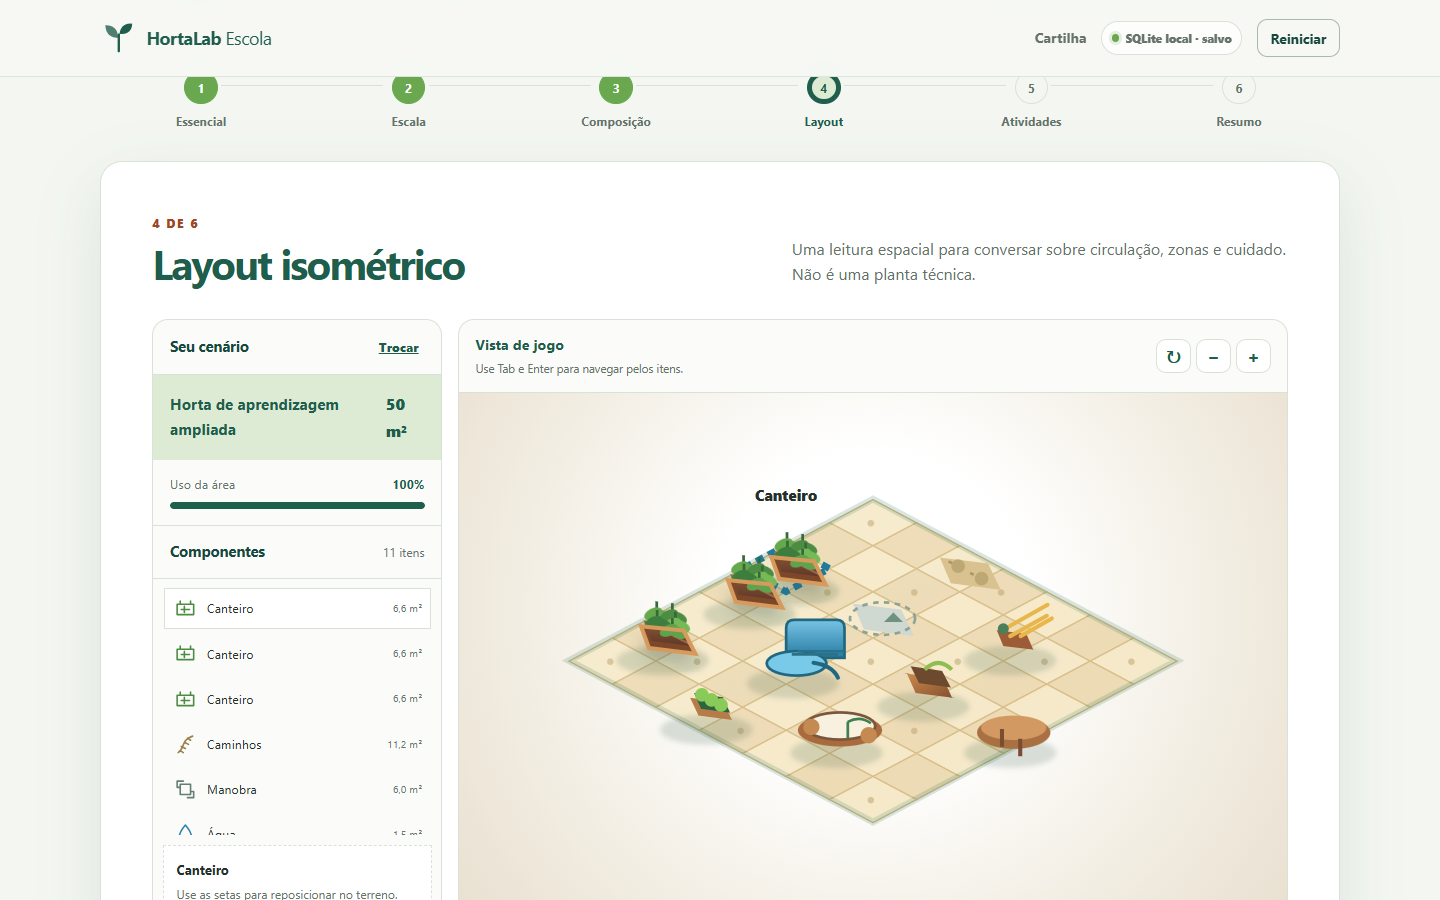
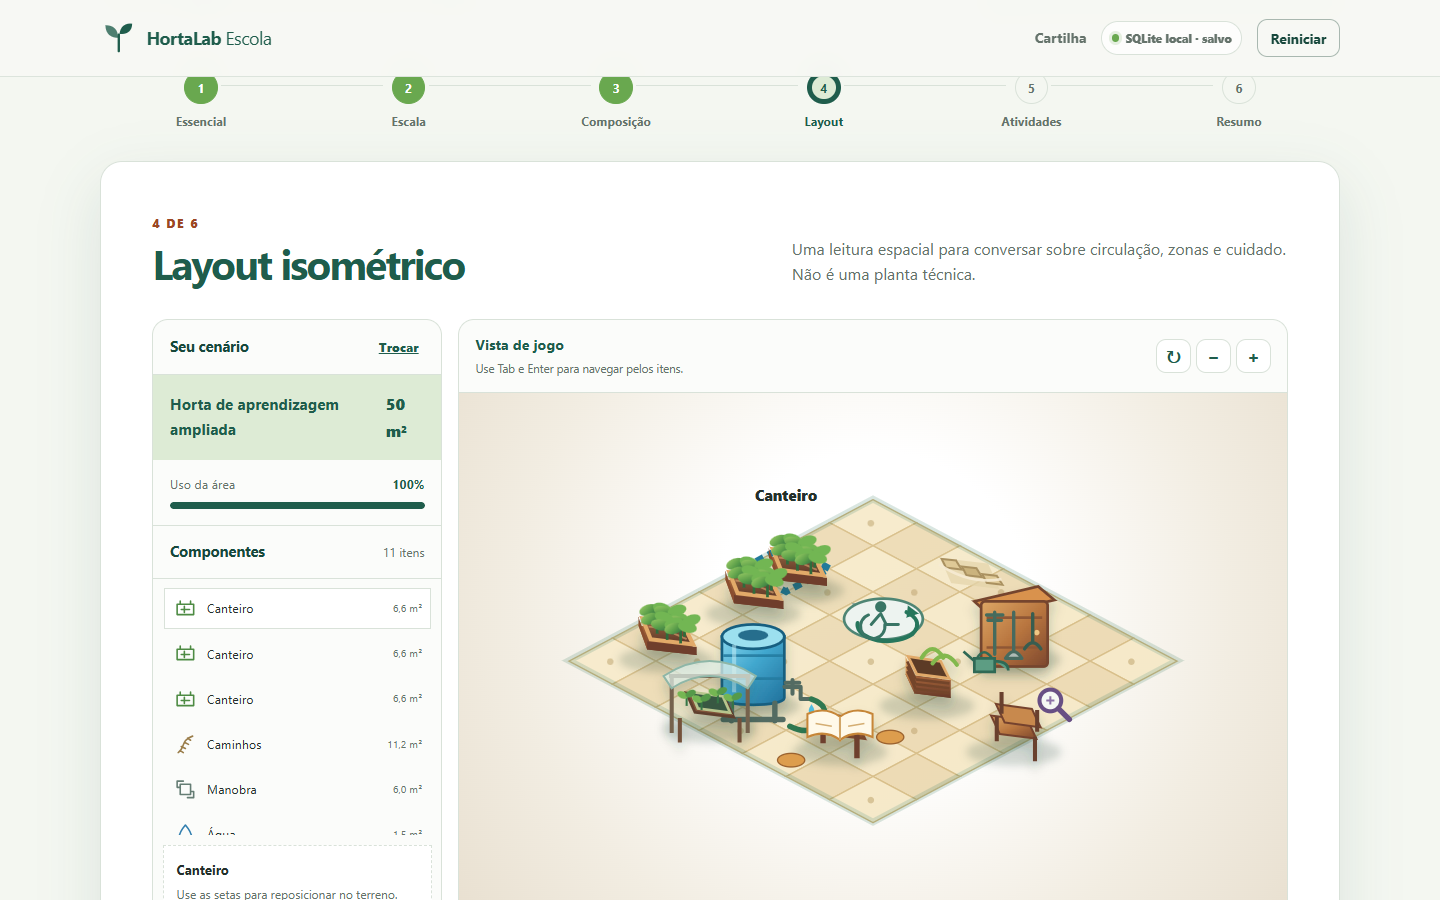
Redesign isometric garden objects

Changed region(s): [[0.4375, 0.5911, 0.75, 0.8711]]

diff --git a/js/planner.js b/js/planner.js
@@ -219,34 +219,46 @@
   function svgDefs(prefix) {
     return `<defs>
       <linearGradient id="${prefix}-terrain" x1="0" y1="0" x2="1" y2="1"><stop offset="0" stop-color="#f8edcf"/><stop offset="1" stop-color="#e7cf9f"/></linearGradient>
-      <linearGradient id="${prefix}-soil" x1="0" y1="0" x2="0" y2="1"><stop stop-color="#8d5835"/><stop offset="1" stop-color="#5f3828"/></linearGradient>
-      <linearGradient id="${prefix}-wood" x1="0" y1="0" x2="1" y2="1"><stop stop-color="#c98a4e"/><stop offset="1" stop-color="#88502e"/></linearGradient>
-      <linearGradient id="${prefix}-water" x1="0" y1="0" x2="0" y2="1"><stop stop-color="#78c3e3"/><stop offset="1" stop-color="#267ba3"/></linearGradient>
-      <filter id="${prefix}-shadow" x="-40%" y="-40%" width="180%" height="200%"><feDropShadow dx="0" dy="8" stdDeviation="5" flood-color="#355344" flood-opacity=".22"/></filter>
-      <filter id="${prefix}-soft" x="-30%" y="-30%" width="160%" height="160%"><feGaussianBlur stdDeviation="2"/></filter>
+      <linearGradient id="${prefix}-soil" x1="0" y1="0" x2="0" y2="1"><stop stop-color="#9b6741"/><stop offset="1" stop-color="#5d3728"/></linearGradient>
+      <linearGradient id="${prefix}-wood" x1="0" y1="0" x2="1" y2="1"><stop stop-color="#dea765"/><stop offset=".52" stop-color="#b8753f"/><stop offset="1" stop-color="#7d472d"/></linearGradient>
+      <linearGradient id="${prefix}-wood-dark" x1="0" y1="0" x2="0" y2="1"><stop stop-color="#a76438"/><stop offset="1" stop-color="#663a29"/></linearGradient>
+      <linearGradient id="${prefix}-water" x1="0" y1="0" x2="1" y2="1"><stop stop-color="#86d5ec"/><stop offset=".45" stop-color="#42a8cf"/><stop offset="1" stop-color="#1f6f9a"/></linearGradient>
+      <linearGradient id="${prefix}-metal" x1="0" y1="0" x2="1" y2="1"><stop stop-color="#f5f8f5"/><stop offset=".5" stop-color="#aabbb5"/><stop offset="1" stop-color="#6d827b"/></linearGradient>
+      <linearGradient id="${prefix}-terracotta" x1="0" y1="0" x2="1" y2="1"><stop stop-color="#ef9a62"/><stop offset="1" stop-color="#a84f32"/></linearGradient>
+      <linearGradient id="${prefix}-foliage" x1="0" y1="0" x2="1" y2="1"><stop stop-color="#9acc65"/><stop offset=".55" stop-color="#5c9f4a"/><stop offset="1" stop-color="#2f7142"/></linearGradient>
+      <filter id="${prefix}-shadow" x="-45%" y="-45%" width="190%" height="210%"><feDropShadow dx="0" dy="6" stdDeviation="4" flood-color="#27483b" flood-opacity=".24"/></filter>
+      <filter id="${prefix}-soft" x="-40%" y="-40%" width="180%" height="180%"><feGaussianBlur stdDeviation="3"/></filter>
     </defs>`;
   }
 
   function artFor(type, x, y, prefix) {
     const p = (dx, dy, z = 0) => isoPoint(x + dx, y + dy, z);
     const pList = (list) => points(list.map(([dx, dy, z]) => p(dx, dy, z)));
+    const [cx, cy] = p(.72, .48, .02);
     const outline = `<polygon class="iso-outline" points="${tilePolygon(x, y, .01)}"/>`;
-    const shadow = `<ellipse cx="${p(.72, .56, .01)[0]}" cy="${p(.72, .56, .01)[1] + 12}" rx="34" ry="11" fill="#385d49" opacity=".18" filter="url(#${prefix}-soft)"/>`;
+    const shadow = `<ellipse class="iso-ground-shadow" cx="${cx}" cy="${cy + 13}" rx="35" ry="10" fill="#28493b" opacity=".2" filter="url(#${prefix}-soft)"/>`;
+    const wrap = (name, art, withShadow = true) => `${outline}<g class="iso-object iso-object-${name}">${withShadow ? shadow : ""}${art}</g>`;
     if (type === "bed") {
-      const leaves = [[0.36, .34, "#65a94c"], [0.58, .2, "#4d8d43"], [0.8, .35, "#76b957"], [0.55, .52, "#3d7e3f"], [0.9, .52, "#5fa44c"]].map(([dx, dy, color], index) => `<g class="plant plant-${index}"><path d="M${p(dx, dy, .45).join(" ")}v-12" stroke="#37683c" stroke-width="2"/><ellipse cx="${p(dx - .08, dy, .52)[0]}" cy="${p(dx - .08, dy, .52)[1]}" rx="7" ry="4" fill="${color}" transform="rotate(-25 ${p(dx - .08, dy, .52).join(" ")})"/><ellipse cx="${p(dx + .08, dy - .05, .53)[0]}" cy="${p(dx + .08, dy - .05, .53)[1]}" rx="7" ry="4" fill="${color}" transform="rotate(25 ${p(dx + .08, dy - .05, .53).join(" ")})"/></g>`).join("");
-      return `${shadow}${outline}<polygon points="${pList([[.1,.48,.08],[.72,.08,.08],[1.36,.45,.08],[.7,.86,.08]])}" fill="#7d472b" filter="url(#${prefix}-shadow)"/><polygon points="${pList([[.17,.45,.29],[.73,.1,.29],[1.28,.44,.29],[.7,.8,.29]])}" fill="url(#${prefix}-soil)"/><path d="M${p(.2,.47,.31).join(" ")}L${p(1.28,.44,.31).join(" ")}M${p(.32,.55,.32).join(" ")}L${p(.8,.24,.32).join(" ")}" stroke="#b1784e" stroke-width="1.5" opacity=".7"/>${leaves}<path d="M${p(.14,.48,.1).join(" ")}L${p(.72,.08,.1).join(" ")}L${p(1.36,.45,.1).join(" ")}L${p(.7,.86,.1).join(" ")}Z" fill="none" stroke="#d69a5c" stroke-width="3"/>`;
+      const leaves = [[0.36,.37,-18],[.57,.24,16],[.76,.38,-12],[.95,.29,20],[.57,.54,-18],[.82,.56,12],[1.05,.48,-14]].map(([dx, dy, angle]) => { const [lx, ly] = p(dx, dy, .55); return `<g class="iso-crop"><path d="M${lx} ${ly + 7}v-10" stroke="#2f6b3c" stroke-width="2"/><ellipse cx="${lx - 5}" cy="${ly - 4}" rx="7" ry="4" fill="url(#${prefix}-foliage)" transform="rotate(${angle} ${lx - 5} ${ly - 4})"/><ellipse cx="${lx + 5}" cy="${ly - 5}" rx="7" ry="4" fill="#72b653" transform="rotate(${-angle} ${lx + 5} ${ly - 5})"/></g>`; }).join("");
+      return wrap("bed", `<polygon points="${pList([[.08,.48,.08],[.72,.05,.08],[1.39,.45,.08],[.7,.9,.08]])}" fill="url(#${prefix}-wood-dark)" filter="url(#${prefix}-shadow)"/><polygon points="${pList([[.08,.48,.08],[.7,.9,.08],[.7,.9,.35],[.08,.48,.35]])}" fill="#8a4d2f"/><polygon points="${pList([[.7,.9,.08],[1.39,.45,.08],[1.39,.45,.35],[.7,.9,.35]])}" fill="#6f3e2c"/><polygon points="${pList([[.15,.46,.36],[.72,.1,.36],[1.3,.44,.36],[.7,.82,.36]])}" fill="url(#${prefix}-soil)" stroke="#e2aa69" stroke-width="3"/><path d="M${p(.3,.5,.39).join(" ")}L${p(1.13,.42,.39).join(" ")}M${p(.42,.59,.39).join(" ")}L${p(.88,.28,.39).join(" ")}" stroke="#c99465" stroke-width="1.4" opacity=".75"/>${leaves}`);
     }
-    if (type === "container") return `${shadow}${outline}<path d="M${p(.28,.42,.12).join(" ")}L${p(1.16,.42,.12).join(" ")}L${p(1.02,.66,.12).join(" ")}L${p(.42,.66,.12).join(" ")}Z" fill="#b66f43"/><ellipse cx="${p(.72,.42,.42)[0]}" cy="${p(.72,.42,.42)[1]}" rx="20" ry="8" fill="#603b2b"/><path d="M${p(.72,.4,.44).join(" ")}v-19M${p(.72,.32,.64).join(" ")}q-10-7-17-1M${p(.72,.32,.64).join(" ")}q10-7 17-1" fill="none" stroke="#62a64e" stroke-width="3"/>`;
-    if (type === "paths") return `${outline}<polygon points="${pList([[.04,.5,.02],[.72,.07,.02],[1.44,.5,.02],[.72,.93,.02]])}" fill="#d9c28f"/><path d="M${p(.24,.5,.05).join(" ")}L${p(1.2,.5,.05).join(" ")}" stroke="#ae9763" stroke-width="2" stroke-dasharray="3 6"/><circle cx="${p(.46,.5,.06)[0]}" cy="${p(.46,.5,.06)[1]}" r="5" fill="#bda875"/><circle cx="${p(1,.5,.06)[0]}" cy="${p(1,.5,.06)[1]}" r="5" fill="#bda875"/>`;
-    if (type === "maneuver") return `${outline}<polygon points="${pList([[.04,.5,.02],[.72,.07,.02],[1.44,.5,.02],[.72,.93,.02]])}" fill="#cfd8d1"/><ellipse cx="${p(.72,.5,.05)[0]}" cy="${p(.72,.5,.05)[1]}" rx="24" ry="12" fill="none" stroke="#8ca397" stroke-width="2" stroke-dasharray="4 4"/><path d="M${p(.72,.25,.06).join(" ")}l7 7h-14Z" fill="#6f9180"/>`;
-    if (type === "water") return `${shadow}${outline}<path d="M${p(.48,.48,.08).join(" ")}v-22q0-6 6-6h31q6 0 6 6v22Z" fill="url(#${prefix}-water)" stroke="#226780" stroke-width="2"/><ellipse cx="${p(.72,.48,.08)[0]}" cy="${p(.72,.48,.08)[1]}" rx="22" ry="9" fill="#79cae8" stroke="#226780" stroke-width="2"/><path d="M${p(.55,.28,.2).join(" ")}h34M${p(.55,.42,.2).join(" ")}h34" stroke="#2b718a" stroke-width="2"/><path d="M${p(.98,.35,.2).join(" ")}q14 2 18 11" fill="none" stroke="#226780" stroke-width="3" stroke-linecap="round"/>`;
-    if (type === "compost") return `${shadow}${outline}<polygon points="${pList([[.2,.42,.06],[.72,.1,.06],[1.24,.42,.06],[.72,.74,.06]])}" fill="url(#${prefix}-wood)"/><path d="M${p(.2,.42,.06).join(" ")}v.3M${p(1.24,.42,.06).join(" ")}v.3M${p(.72,.1,.06).join(" ")}v.3" stroke="#633d2b" stroke-width="3"/><polygon points="${pList([[.26,.39,.33],[.72,.13,.33],[1.18,.39,.33],[.72,.66,.33]])}" fill="#6d492e"/><path d="M${p(.55,.36,.42).join(" ")}q10-10 20 0" stroke="#8fbd50" stroke-width="3" fill="none"/>`;
-    if (type === "observation") return `${shadow}${outline}<ellipse cx="${p(.72,.48,.08)[0]}" cy="${p(.72,.48,.08)[1]}" rx="27" ry="12" fill="#a97142"/><ellipse cx="${p(.72,.48,.24)[0]}" cy="${p(.72,.48,.24)[1]}" rx="24" ry="9" fill="#d29a62"/><path d="M${p(.52,.55,.1).join(" ")}v13M${p(.94,.55,.1).join(" ")}v13" stroke="#7a4c32" stroke-width="3"/>`;
-    if (type === "pedagogy") return `${shadow}${outline}<ellipse cx="${p(.72,.48,.16)[0]}" cy="${p(.72,.48,.16)[1]}" rx="31" ry="12" fill="#a96b3d"/><ellipse cx="${p(.72,.48,.3)[0]}" cy="${p(.72,.48,.3)[1]}" rx="26" ry="10" fill="#f8f1df" stroke="#7b563d" stroke-width="2"/><path d="M${p(.72,.3,.3).join(" ")}v12M${p(.72,.3,.3).join(" ")}q9-5 17 1" stroke="#3f8050" stroke-width="2" fill="none"/><circle cx="${p(.3,.72,.13)[0]}" cy="${p(.3,.72,.13)[1]}" r="6" fill="#c58a52"/><circle cx="${p(1.14,.24,.13)[0]}" cy="${p(1.14,.24,.13)[1]}" r="6" fill="#c58a52"/>`;
-    if (type === "seedlings") return `${shadow}${outline}<polygon points="${pList([[.24,.45,.08],[.72,.16,.08],[1.2,.45,.08],[.72,.74,.08]])}" fill="#b57b49"/><polygon points="${pList([[.3,.42,.26],[.72,.18,.26],[1.14,.43,.26],[.72,.68,.26]])}" fill="#2f633d"/>${[.48,.7,.92].map((offset) => `<circle cx="${p(offset,.42,.34)[0]}" cy="${p(offset,.42,.34)[1]}" r="5" fill="#8aca58"/>`).join("")}`;
-    if (type === "tools") return `${shadow}${outline}<polygon points="${pList([[.3,.45,.07],[.72,.19,.07],[1.14,.45,.07],[.72,.72,.07]])}" fill="#9d5b37"/><path d="M${p(.48,.46,.25).join(" ")}l32-18M${p(.7,.54,.25).join(" ")}l27-15M${p(.82,.42,.25).join(" ")}l23-13" stroke="#e8b64a" stroke-width="3" stroke-linecap="round"/><circle cx="${p(.46,.46,.25)[0]}" cy="${p(.46,.46,.25)[1]}" r="4" fill="#4b7f5b"/>`;
-    if (type === "signage") return `${shadow}${outline}<path d="M${p(.72,.5,.06).join(" ")}v-30" stroke="#7e5939" stroke-width="3"/><path d="M${p(.23,.38,.44).join(" ")}h.98v.42h-.98z" fill="#d8753c" stroke="#934c2d" stroke-width="1"/><path d="M${p(.37,.47,.47).join(" ")}h.45" stroke="#fff4d6" stroke-width="2"/>`;
-    return `${shadow}${outline}`;
+    if (type === "container") return wrap("container", `<ellipse cx="${cx}" cy="${cy - 14}" rx="24" ry="9" fill="#f6aa70" stroke="#95452f" stroke-width="2"/><path d="M${cx - 22} ${cy - 13}L${cx - 15} ${cy + 17}Q${cx} ${cy + 27} ${cx + 15} ${cy + 17}L${cx + 22} ${cy - 13}Z" fill="url(#${prefix}-terracotta)" stroke="#95452f" stroke-width="2"/><ellipse cx="${cx}" cy="${cy - 14}" rx="18" ry="6" fill="#5f3b2b"/><path d="M${cx} ${cy - 14}V${cy - 42}" stroke="#357642" stroke-width="3"/><ellipse cx="${cx - 10}" cy="${cy - 34}" rx="12" ry="6" fill="url(#${prefix}-foliage)" transform="rotate(25 ${cx - 10} ${cy - 34})"/><ellipse cx="${cx + 10}" cy="${cy - 42}" rx="12" ry="6" fill="#70b653" transform="rotate(-25 ${cx + 10} ${cy - 42})"/><path d="M${cx - 16} ${cy + 8}Q${cx} ${cy + 15} ${cx + 17} ${cy + 7}" fill="none" stroke="#f7ba88" stroke-width="2" opacity=".7"/>`);
+    if (type === "paths") {
+      const stones = [[.3,.52],[.7,.45],[1.1,.38]].map(([dx, dy], index) => `<polygon class="iso-paver" points="${pList([[dx-.2,dy,.04],[dx,dy-.13,.04],[dx+.26,dy,.04],[dx+.04,dy+.14,.04]])}" fill="${index % 2 ? "#cbb37d" : "#dfc996"}" stroke="#aa9160" stroke-width="1.5"/>`).join("");
+      return wrap("paths", `<polygon points="${pList([[.05,.5,.015],[.72,.07,.015],[1.4,.49,.015],[.72,.92,.015]])}" fill="#e5d4aa" opacity=".74"/>${stones}<path d="M${p(.2,.68,.06).join(" ")}Q${cx} ${cy + 9} ${p(1.24,.28,.06).join(" ")}" fill="none" stroke="#f7ecd3" stroke-width="2" opacity=".9"/>`, false);
+    }
+    if (type === "maneuver") return wrap("maneuver", `<polygon points="${pList([[.05,.5,.02],[.72,.07,.02],[1.4,.49,.02],[.72,.92,.02]])}" fill="#dbe4df" stroke="#91a79d" stroke-width="1.5"/><ellipse cx="${cx}" cy="${cy}" rx="29" ry="15" fill="#edf3f0" stroke="#4e8574" stroke-width="2"/><path class="iso-turning-arrow" d="M${cx - 19} ${cy + 3}A22 12 0 1 0 ${cx + 17} ${cy - 5}" fill="none" stroke="#26765c" stroke-width="3" stroke-linecap="round"/><path d="M${cx + 18} ${cy - 10}l8 6-9 3Z" fill="#26765c"/><g class="iso-access-symbol" fill="none" stroke="#397565" stroke-width="2.2" stroke-linecap="round" stroke-linejoin="round"><circle cx="${cx - 2}" cy="${cy - 9}" r="3" fill="#397565"/><path d="M${cx - 2} ${cy - 4}l4 8h9M${cx - 3} ${cy - 3}l-6 7M${cx + 1} ${cy + 4}a9 9 0 1 1-12-7"/></g>`, false);
+    if (type === "water") return wrap("water", `<g class="iso-water-tank" filter="url(#${prefix}-shadow)"><path d="M${cx - 23} ${cy - 38}V${cy + 7}C${cx - 23} ${cy + 14},${cx + 23} ${cy + 14},${cx + 23} ${cy + 7}V${cy - 38}Z" fill="url(#${prefix}-water)" stroke="#185e80" stroke-width="2"/><ellipse cx="${cx}" cy="${cy - 38}" rx="23" ry="9" fill="#9ce0ef" stroke="#185e80" stroke-width="2"/><ellipse cx="${cx}" cy="${cy - 39}" rx="11" ry="4" fill="#286e8d"/><path d="M${cx - 22} ${cy - 24}H${cx + 22}M${cx - 22} ${cy - 7}H${cx + 22}" stroke="#237a9f" stroke-width="2" opacity=".85"/><path d="M${cx - 14} ${cy - 32}V${cy + 3}" stroke="#c5f0f7" stroke-width="3" opacity=".52"/></g><g class="iso-water-stand" stroke="#536b62" stroke-width="4" stroke-linecap="round"><path d="M${cx - 16} ${cy + 11}v13M${cx + 16} ${cy + 11}v13M${cx - 22} ${cy + 23}h44"/></g><g class="iso-water-tap" fill="none" stroke="#536b62" stroke-width="3" stroke-linecap="round" stroke-linejoin="round"><path d="M${cx + 23} ${cy - 1}h12v9h8"/><path d="M${cx + 29} ${cy - 6}v10m-5-8h10"/></g><path class="iso-water-hose" d="M${cx + 43} ${cy + 8}q14 5 8 16q-8 12-24 4" fill="none" stroke="#2f7851" stroke-width="4" stroke-linecap="round"/><path class="iso-water-drop" d="M${cx + 43} ${cy + 12}q4 5 0 8q-4-3 0-8Z" fill="#4fbee0"/>`);
+    if (type === "compost") return wrap("compost", `<g class="iso-compost-bin" filter="url(#${prefix}-shadow)"><polygon points="${pList([[.2,.45,.06],[.72,.14,.06],[1.23,.44,.06],[.72,.76,.06]])}" fill="#6c442d"/><polygon points="${pList([[.2,.45,.06],[.72,.76,.06],[.72,.76,.65],[.2,.45,.65]])}" fill="url(#${prefix}-wood)"/><polygon points="${pList([[.72,.76,.06],[1.23,.44,.06],[1.23,.44,.65],[.72,.76,.65]])}" fill="url(#${prefix}-wood-dark)"/><polygon points="${pList([[.24,.43,.67],[.72,.16,.67],[1.18,.43,.67],[.72,.71,.67]])}" fill="#5c3b27" stroke="#e1a969" stroke-width="2"/>${[.2,.36,.52].map((z) => `<path d="M${p(.24,.45,z).join(" ")}L${p(.72,.74,z).join(" ")}M${p(.72,.74,z).join(" ")}L${p(1.2,.44,z).join(" ")}" stroke="#73452c" stroke-width="2"/>`).join("")}<path d="M${p(.48,.36,.76).join(" ")}q8-13 16 0M${p(.72,.35,.75).join(" ")}q9-12 18 1" stroke="#82b84e" stroke-width="3" fill="none" stroke-linecap="round"/></g>`);
+    if (type === "observation") return wrap("observation", `<g class="iso-observation-bench" filter="url(#${prefix}-shadow)"><polygon points="${pList([[.2,.48,.25],[.72,.16,.25],[1.22,.46,.25],[.7,.78,.25]])}" fill="url(#${prefix}-wood)" stroke="#75432d" stroke-width="1.5"/><polygon points="${pList([[.2,.37,.55],[.72,.06,.55],[1.22,.36,.55],[.7,.67,.55]])}" fill="#c8894d" stroke="#75432d" stroke-width="1.5"/><path d="M${p(.27,.42,.21).join(" ")}v18M${p(1.14,.41,.21).join(" ")}v18M${p(.3,.34,.28).join(" ")}v-16M${p(1.1,.32,.28).join(" ")}v-16" stroke="#69402d" stroke-width="3"/></g><g class="iso-observation-marker" transform="translate(${cx + 27} ${cy - 25})"><circle cx="0" cy="0" r="8" fill="#f5f8f4" stroke="#684f84" stroke-width="3"/><path d="M6 6l8 8" stroke="#684f84" stroke-width="4" stroke-linecap="round"/><path d="M-3 0h6M0-3v6" stroke="#8e74a8" stroke-width="1.5"/></g>`);
+    if (type === "pedagogy") return wrap("pedagogy", `<g class="iso-learning-table" filter="url(#${prefix}-shadow)"><polygon points="${pList([[.16,.48,.3],[.72,.13,.3],[1.28,.47,.3],[.71,.82,.3]])}" fill="url(#${prefix}-wood)" stroke="#7a482e" stroke-width="2"/><path d="M${p(.36,.51,.29).join(" ")}v18M${p(1.08,.45,.29).join(" ")}v18" stroke="#6e412d" stroke-width="4"/><g class="iso-open-book"><path d="M${cx - 24} ${cy - 15}q13-6 24 2v17q-11-8-24-2Z" fill="#fff9e9" stroke="#c68638" stroke-width="1.5"/><path d="M${cx + 24} ${cy - 15}q-13-6-24 2v17q11-8 24-2Z" fill="#fff9e9" stroke="#c68638" stroke-width="1.5"/><path d="M${cx} ${cy - 13}v17M${cx - 18} ${cy - 8}l12 2M${cx + 18} ${cy - 8}l-12 2" stroke="#d4ad72" stroke-width="1.2"/></g></g><g class="iso-learning-stools"><ellipse cx="${cx - 36}" cy="${cy + 19}" rx="10" ry="5" fill="#dd9d4d" stroke="#9b622e"/><ellipse cx="${cx + 37}" cy="${cy + 2}" rx="10" ry="5" fill="#dd9d4d" stroke="#9b622e"/></g>`);
+    if (type === "seedlings") {
+      const sprouts = [[-17,-10],[-6,-7],[6,-12],[17,-8]].map(([dx, dy]) => `<g transform="translate(${cx + dx} ${cy + dy})"><path d="M0 6V-1" stroke="#367444" stroke-width="1.5"/><ellipse cx="-3" cy="-2" rx="4" ry="2.5" fill="#74b653" transform="rotate(25 -3 -2)"/><ellipse cx="3" cy="-3" rx="4" ry="2.5" fill="#559a48" transform="rotate(-25 3 -3)"/></g>`).join("");
+      return wrap("seedlings", `<g class="iso-nursery-bench" filter="url(#${prefix}-shadow)"><path d="M${cx - 28} ${cy - 26}v42M${cx + 28} ${cy - 26}v42M${cx - 30} ${cy - 26}h60" stroke="#74624d" stroke-width="3"/><path d="M${cx - 34} ${cy - 26}Q${cx} ${cy - 48} ${cx + 34} ${cy - 26}L${cx + 28} ${cy - 17}Q${cx} ${cy - 35} ${cx - 28} ${cy - 17}Z" fill="#dff0e9" fill-opacity=".72" stroke="#8eb6a7" stroke-width="1.5"/><polygon points="${pList([[.18,.48,.22],[.72,.14,.22],[1.25,.46,.22],[.7,.8,.22]])}" fill="#805239" stroke="#60402e" stroke-width="2"/><polygon points="${pList([[.26,.45,.29],[.72,.18,.29],[1.16,.45,.29],[.7,.73,.29]])}" fill="#395943" stroke="#b7c58d" stroke-width="2"/>${sprouts}<path d="M${cx - 22} ${cy + 5}v18M${cx + 22} ${cy + 5}v18" stroke="#73513a" stroke-width="3"/></g>`);
+    }
+    if (type === "tools") return wrap("tools", `<g class="iso-tool-rack" filter="url(#${prefix}-shadow)"><polygon points="${cx - 29},${cy - 30} ${cx + 18},${cy - 41} ${cx + 30},${cy - 31} ${cx - 18},${cy - 20}" fill="#d9924d" stroke="#75442d" stroke-width="2"/><rect x="${cx - 24}" y="${cy - 30}" width="49" height="48" rx="3" fill="url(#${prefix}-wood)" stroke="#75442d" stroke-width="2"/><path d="M${cx - 20} ${cy - 18}h41M${cx - 20} ${cy + 4}h41" stroke="#8f5734" stroke-width="2"/><circle cx="${cx + 17}" cy="${cy - 7}" r="2" fill="#f0c784"/></g><g class="iso-tool-shapes" fill="none" stroke-linecap="round" stroke-linejoin="round"><path d="M${cx - 14} ${cy - 22}v31M${cx - 20} ${cy - 20}h12M${cx - 19} ${cy - 16}h10" stroke="#456b5d" stroke-width="2.5"/><path d="M${cx} ${cy - 22}v29m-6 5q6-10 12 0Z" stroke="#476a5f" stroke-width="2.5" fill="#aebbb6"/><path d="M${cx + 14} ${cy - 21}v21m-6 5q6-9 12 0" stroke="#385d50" stroke-width="2.5"/></g><g class="iso-watering-can" transform="translate(${cx - 29} ${cy + 12})"><path d="M0 0h15v10H0zM15 2q10 0 10 7M0 2l-8-7" fill="#5d9d83" stroke="#2f6955" stroke-width="2"/><path d="M2 0q5-9 11 0" fill="none" stroke="#2f6955" stroke-width="2"/></g>`);
+    if (type === "signage") return wrap("signage", `<g class="iso-signpost" filter="url(#${prefix}-shadow)"><path d="M${cx} ${cy + 17}V${cy - 35}" stroke="#72462f" stroke-width="5"/><path d="M${cx - 32} ${cy - 39}l49-11 15 11-49 11Z" fill="#dc7440" stroke="#87412b" stroke-width="2"/><path d="M${cx - 18} ${cy - 38}l27-6M${cx - 14} ${cy - 33}l18-4" stroke="#fff0cf" stroke-width="2" stroke-linecap="round"/></g>`);
+    return `${outline}<g class="iso-object iso-object-generic">${shadow}</g>`;
   }
 
   function renderIsoInto(svg, interactive = true) {
@@ -277,7 +289,7 @@
       const point = isoPoint(x, y, .03);
       const label = `${type.label}, ${formatArea(item.area)} m²`;
       const labelMarkup = interactive && item.id === state.selectedId ? `<text class="iso-label" x="${point[0]}" y="${point[1] - 32}" text-anchor="middle">${escapeHtml(type.short)}</text>` : "";
-      return `<g class="iso-hit${interactive && item.id === state.selectedId ? " is-selected" : ""}" data-iso-id="${item.id}"${interactive ? ' tabindex="0" role="button"' : ""} aria-label="${label}">${artFor(item.type, x, y, prefix)}${labelMarkup}</g>`;
+      return `<g class="iso-hit${interactive && item.id === state.selectedId ? " is-selected" : ""}" data-iso-id="${item.id}" data-iso-type="${item.type}"${interactive ? ' tabindex="0" role="button"' : ""} aria-label="${label}">${artFor(item.type, x, y, prefix)}${labelMarkup}</g>`;
     }).join("");
     svg.innerHTML = `${svgDefs(prefix)}<title id="${prefix === "layout" ? "v2IsoTitle" : "v2CompositionTitle"}">${interactive ? "Montagem isométrica da horta" : "Prévia da composição"}</title><desc id="${prefix === "layout" ? "v2IsoDesc" : "v2CompositionDesc"}">${scenario().name}, ${scenario().area} metros quadrados, com ${state.components.length} componentes.</desc><g class="iso-world">${terrain.join("")}${boundary}${objects}</g>`;
     if (!interactive) return;
@@ -463,7 +475,7 @@
 
   async function exportPlan() {
     await persistNow();
-    downloadBlob(new Blob([JSON.stringify({ app: "HortaLab Escola", version: "2.1.1", exportedAt: new Date().toISOString(), state: clone(state) }, null, 2)], { type: "application/json" }), "hortalab-plano.json");
+    downloadBlob(new Blob([JSON.stringify({ app: "HortaLab Escola", version: "2.2.0", exportedAt: new Date().toISOString(), state: clone(state) }, null, 2)], { type: "application/json" }), "hortalab-plano.json");
     announce("Plano JSON exportado.");
   }
 

diff --git a/css/planner.css b/css/planner.css
@@ -121,6 +121,9 @@
 #v2IsoCanvas .iso-hit:focus .iso-outline, #v2IsoCanvas .iso-hit.is-selected .iso-outline { opacity: 1; stroke: #227a9c; stroke-width: 5; }
 #v2IsoCanvas .iso-outline { opacity: 0; fill: none; stroke: #227a9c; stroke-width: 3; stroke-dasharray: 6 4; pointer-events: none; }
 #v2IsoCanvas .iso-label { paint-order: stroke; stroke: rgba(255,255,255,.96); stroke-width: 4px; stroke-linejoin: round; fill: var(--v2-ink); font-size: 11px; font-weight: 800; pointer-events: none; }
+.iso-object { pointer-events: none; transform-box: fill-box; transform-origin: center bottom; transition: transform .18s ease, filter .18s ease; }
+#v2IsoCanvas .iso-hit:hover .iso-object, #v2IsoCanvas .iso-hit:focus .iso-object { transform: translateY(-2px); filter: saturate(1.06) brightness(1.02); }
+.iso-crop, .iso-water-drop { transform-box: fill-box; transform-origin: center bottom; }
 .iso-world { isolation: isolate; }
 .v2-stage-legend { display: flex; flex-wrap: wrap; gap: .75rem 1.2rem; padding: .75rem 1rem; border-top: 1px solid var(--v2-line); color: var(--v2-muted); font-size: .72rem; }
 .legend-dot { display: inline-block; width: .55rem; height: .55rem; margin-right: .35rem; border-radius: 50%; vertical-align: middle; }

diff --git a/service-worker.js b/service-worker.js
@@ -1,10 +1,10 @@
-const CACHE_NAME = "hortalab-escola-v2-1-1";
+const CACHE_NAME = "hortalab-escola-v2-2-0";
 const APP_SHELL = [
   "./", "./index.html", "./cartilha.html", "./manifest.webmanifest",
   "./css/styles.css", "./css/simulator.css", "./css/cartilha.css", "./css/print.css",
   "./js/data.js", "./js/state.js", "./js/rules.js", "./js/storage.js", "./js/charts.js",
   "./js/simulator.js", "./js/export.js", "./js/app.js", "./js/cartilha.js",
-  "./index.html", "./css/planner.css?v=2.1.1", "./js/planner.js?v=2.1.1", "./js/local-db.js",
+  "./index.html", "./css/planner.css?v=2.2.0", "./js/planner.js?v=2.2.0", "./js/local-db.js",
   "./assets/vendor/sql-wasm.js", "./assets/vendor/sql-wasm.wasm",
   "./assets/icons/favicon.svg", "./assets/images/hero-planejamento.jpg",
   "./assets/images/pesquisa-acao.jpg", "./assets/images/eventos-adaptacao.jpg"

diff --git a/index.html b/index.html
@@ -9,7 +9,7 @@
   <link rel="icon" href="assets/icons/favicon.svg" type="image/svg+xml">
   <link rel="manifest" href="manifest.webmanifest">
   <link rel="stylesheet" href="css/styles.css">
-  <link rel="stylesheet" href="css/planner.css?v=2.1.1">
+  <link rel="stylesheet" href="css/planner.css?v=2.2.0">
   <link rel="stylesheet" href="css/print.css" media="print">
 </head>
 <body class="v2-body">
@@ -144,6 +144,6 @@
   <script src="assets/vendor/sql-wasm.js" defer></script>
   <script src="js/data.js" defer></script>
   <script src="js/local-db.js" defer></script>
-  <script src="js/planner.js?v=2.1.1" defer></script>
+  <script src="js/planner.js?v=2.2.0" defer></script>
 </body>
 </html>

diff --git a/README.md b/README.md
@@ -4,7 +4,7 @@ Produto educacional estático para apoiar professores e gestores no planejamento
 
 ## Versão oficial e histórico
 
-O produto possui uma única entrada oficial em `index.html`. Na versão `2.1.1`, a jornada simplificada mantém a composição 2D antes da aba `Layout`: o usuário escolhe os componentes no catálogo, organiza o mapa e então configura o mesmo conjunto na montagem isométrica, com seleção, remoção, rotação, zoom e reposicionamento acessível por teclado.
+O produto possui uma única entrada oficial em `index.html`. Na versão `2.2.0`, a jornada simplificada mantém a composição 2D antes da aba `Layout`: o usuário escolhe os componentes no catálogo, organiza o mapa e então configura o mesmo conjunto na montagem isométrica, com seleção, remoção, rotação, zoom e reposicionamento acessível por teclado. Os objetos isométricos possuem ilustrações vetoriais próprias e reconhecíveis — incluindo reservatório com torneira e mangueira, viveiro de mudas, composteira, banco de observação e armário de ferramentas — sem depender de imagens externas.
 
 A versão anterior não foi apagada do histórico: a tag Git `v1-atual` aponta para o estado anterior do projeto. Assim, o GitHub mantém versionamento real sem criar duas aplicações concorrentes no site publicado.
 
